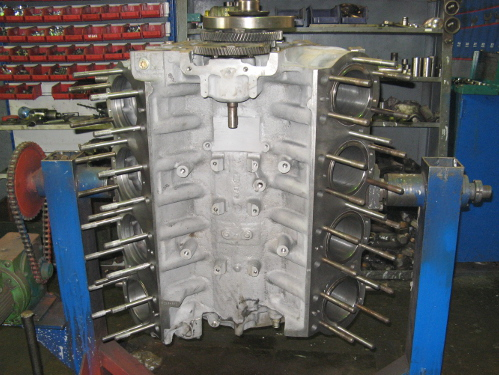
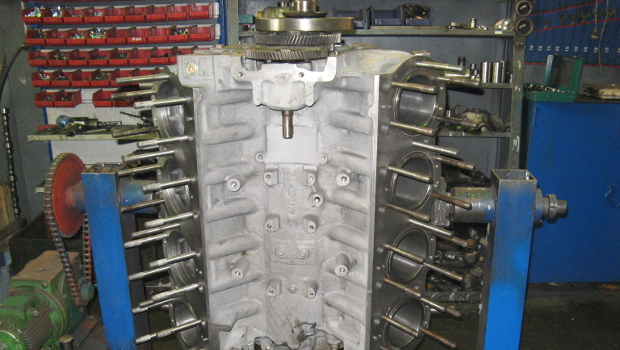
Страницы "главная", "О компании": правка

diff --git a/css/style.css b/css/style.css
@@ -1,2 +1,2 @@
-a,abbr,acronym,address,applet,article,aside,audio,b,big,blockquote,body,canvas,caption,center,cite,code,dd,del,details,dfn,div,dl,dt,em,embed,fieldset,figcaption,figure,footer,form,h1,h2,h3,h4,h5,h6,header,html,i,iframe,img,ins,kbd,label,legend,li,mark,menu,nav,object,ol,output,p,pre,q,ruby,s,samp,section,small,span,strike,strong,sub,summary,sup,table,tbody,td,tfoot,th,thead,time,tr,tt,u,ul,var,video{vertical-align:baseline;margin:0;padding:0;border:0;font-size:100%;font-family:inherit}article,aside,details,figcaption,figure,footer,header menu,nav,section{display:block}ol,ul{list-style:none}blockquote,q{quotes:none}blockquote:after,blockquote:before,q:after,q:before{content:none}table{border-collapse:collapse;border-spacing:0}caption,td,th{text-align:left;font-weight:400;vertical-align:middle}h1,h2,h3,h4,h5,h6{font-weight:400}:focus,a,button:focus,input:focus,optgroup:focus,select:focus,textarea:focus,ul{outline:0}button,input[type=button],input[type=submit]{font-family:inherit}.nivo-slider{position:relative;width:100%;height:auto;overflow:hidden}.nivo-slider img{position:absolute;top:0;left:0;height:375px;max-width:none}.nivo-main-image{display:block!important;position:relative!important;width:100%!important}.nivo-slider a.nivo-imageLink{position:absolute;top:0;left:0;width:100%;height:100%;border:0;padding:0;margin:0;z-index:6;display:none;background:#fff;opacity:0}.nivo-slice{display:block;position:absolute;z-index:5;height:100%;top:0}.nivo-box{display:block;position:absolute;z-index:5;overflow:hidden}.nivo-box img{display:block}.nivo-caption{position:absolute;left:0;bottom:0;background:#000;color:#fff;width:100%;z-index:8;padding:5px 10px;opacity:.8;overflow:hidden;display:none;-moz-opacity:.8;-webkit-box-sizing:border-box;box-sizing:border-box}.nivo-caption p{padding:5px;margin:0}.nivo-caption a{display:inline!important}.nivo-html-caption{display:none}.nivo-directionNav a{position:absolute;top:45%;z-index:9;cursor:pointer}.nivo-prevNav{left:0}.nivo-nextNav{right:0}.nivo-controlNav{text-align:center;padding:15px 0}.nivo-controlNav a{cursor:pointer}.nivo-controlNav a.active{font-weight:700}.theme-bar{position:relative;overflow:hidden}.theme-bar .nivo-slider{position:relative;background:url(../../vendors/nivo-slider/images/loading.gif) 50% 50% no-repeat #fff}.theme-bar .nivo-slider img{position:absolute;top:0;left:0;display:none}.theme-bar .nivo-slider a{border:0;display:block}.theme-bar .nivo-controlNav{position:absolute;left:0;bottom:-41px;z-index:10;width:100%;height:30px;text-align:center;padding:5px 0;border-top:1px solid #333;background:#333;background:-webkit-gradient(linear,left top,left bottom,from(#565656),to(#333));background:linear-gradient(to bottom,#565656 0,#333 100%);opacity:.5;-webkit-transition:.2s ease-in-out;transition:.2s ease-in-out}.theme-bar:hover .nivo-controlNav{bottom:0;opacity:1}.theme-bar .nivo-controlNav a{display:inline-block;width:22px;height:22px;background:url(../../vendors/nivo-slider/images/bullets.png) no-repeat;text-indent:-9999px;border:0;margin:5px 2px 0}.theme-bar .nivo-controlNav a.active{background-position:0 -22px}.theme-bar .nivo-directionNav a{display:block;border:0;color:#fff;text-transform:uppercase;top:auto;bottom:10px;z-index:11;font-family:"Helvetica Neue",Helvetica,Arial,sans-serif;font-size:13px;line-height:20px;opacity:.5;-webkit-transition:.2s ease-in-out;transition:.2s ease-in-out}.theme-bar a.nivo-nextNav{right:-60px}.theme-bar a.nivo-prevNav{left:-60px}.theme-bar:hover a.nivo-nextNav{right:15px;opacity:1}.theme-bar:hover a.nivo-prevNav{left:15px;opacity:1}.theme-bar .nivo-directionNav a:hover{color:#ddd}.theme-bar .nivo-caption{font-family:Helvetica,Arial,sans-serif;-webkit-transition:.2s ease-in-out;transition:.2s ease-in-out}.theme-bar:hover .nivo-caption{bottom:41px}.theme-bar .nivo-caption a{color:#fff;border-bottom:1px dotted #fff}.theme-bar .nivo-caption a:hover{color:#fff}.theme-bar .nivo-controlNav.nivo-thumbs-enabled{width:100%}.theme-bar .nivo-controlNav.nivo-thumbs-enabled a{width:auto;height:auto;background:0 0;margin-bottom:5px}.theme-bar .nivo-controlNav.nivo-thumbs-enabled img{display:block;width:120px;height:auto}.content-title{border-bottom:2px solid #f9bf00;padding-bottom:10px;font-size:21px;font-weight:700;color:#081f3e;text-shadow:1px 1px 2px rgba(35,31,32,.5)}.table-description{margin-bottom:10px;width:100%;border:1px solid #000;border-spacing:0}.table-description__caption{margin-bottom:5px;font-size:16px;text-align:center}.table-description__head{background:#aaa}.table-description__head-answer,.table-description__head-question{padding:5px 10px;border:1px solid #000;font-weight:700}.table-description__body-label,.table-description__body-value{padding:5px 10px;border:1px solid #000}.table-description__foot-call{padding:5px 10px;border:1px solid #000;color:#555;font-size:13px}.table-photo{width:100%}.table-photo__cell{width:50%}.table-photo__cell-link{display:block;margin:10px auto;width:75%;outline:#aaa solid 2px}.table-photo__cell-link:hover{outline:#f9bf00 solid 2px}.table-photo__cell-img{width:100%;vertical-align:bottom}.footer{display:inline-block;padding:10px 20px;color:#777}.footer__company{float:left;width:410px}.footer__location{float:left;width:250px}.footer__phones{float:left;width:230px;text-align:right}.header{background:url(../../images/oblaka.png) repeat-x;height:100%;margin:0 auto;position:relative;width:100%}.header:before{content:"";position:absolute;left:50%;margin-left:-300px;height:100%;width:600px;background:url(../../images/fon_head.png) no-repeat}.header__block{position:absolute;left:0;top:40px;height:50px;width:100%;z-index:10}.header__block._fixed{position:fixed;top:0;left:0;min-width:940px;background-color:rgba(8,35,68,.9)}.control-panel{position:relative;margin:0 auto;height:100%;width:940px}.control-panel__logo{display:block;position:absolute;top:11px;left:20px;letter-spacing:1px;font-weight:700;font-size:20px;text-shadow:1px 1px 2px #000}.control-panel__logo:hover{color:#fd9438}.menu{height:50px;position:absolute;right:0;top:0}.menu__list{float:right;height:100%}.menu__item{float:left;margin-top:19px;padding:0 12px;border-right:1px solid #ccc;line-height:12px;list-style:none}.menu__item._end{margin-right:18px;border:none}.menu__link{color:#e7f6fe;text-decoration:none;text-shadow:1px 1px 2px #000}.menu__link._active,.menu__link:hover{color:#f9bf00}.sidebar-container{float:left;position:relative;margin:10px 0;min-height:1px;width:260px}.sidebar{margin-left:10px;width:250px;text-align:left}.sidebar._fixed{position:fixed}.sidebar__title{margin-bottom:5px;padding:12px;font-size:18px;font-weight:700;color:#081f3e;background:#f9bf00;text-shadow:1px 1px 2px rgba(35,31,32,.5)}.sidebar-menu{position:relative}.sidebar-menu__item{padding:0 10px}.sidebar-menu__block-link{position:relative}.sidebar-menu__link{display:block;margin-left:30px;padding:3px 0;-webkit-box-sizing:border-box;box-sizing:border-box;color:#fff}.sidebar-menu__link:before{content:'';position:absolute;top:0;left:0;height:20px;width:40px;background:url(../../images/arrow.gif) 0 8px no-repeat}.sidebar-menu__link._active,.sidebar-menu__link:hover{color:#f9bf00}*{margin:0;padding:0}body,html{height:100%}body{-webkit-text-size-adjust:none;background:#fff;color:#000;font-weight:400;font-size:14px;font-family:Tahoma,sans-serif;line-height:1.3}img{border:none}a{color:#fff;text-decoration:none}b,strong{font-weight:700}article,aside,footer,header,nav,section{display:block}.wrapper{display:table;height:100%;min-width:940px;width:100%;background:#4b86c8}.header-container{position:relative;height:300px;width:100%;background:url(../../images/fon_head_substrate.png)}.content-container{display:table-row;height:100%;text-align:center}.content-container__block{display:inline-block;height:100%;background:url(../../images/lines_1.png)}.footer-container{width:100%;background:#081f3e}.footer-container__block{margin:0 auto;width:940px}.header__block{background:#081f3e}.about-company{float:left;position:relative;margin:10px;padding:10px 20px;height:calc(100% - 40px);min-height:320px;width:620px;background:#e8eff8;text-align:left}.about-company__text{padding:10px 0;line-height:1.3;text-align:justify;text-indent:25px}.about-company .dtl__list{padding-left:25px}.about-company .dtl__item{position:relative;margin-top:5px}.about-company .dtl__item:before{content:'-';position:absolute;top:0;left:-12px}.about-company__photo-ms1g2-1.table-photo .table-photo__cell:nth-of-type(1){width:70.35%}.about-company__photo-ms1g2-1.table-photo .table-photo__cell:nth-of-type(1) .table-photo__cell-link{margin-left:37px}.about-company__photo-ms1g2-1.table-photo .table-photo__cell:nth-of-type(2){width:29.65%}.about-company__photo-ms1g2-1.table-photo .table-photo__cell:nth-of-type(2) .table-photo__cell-link{margin-left:7px}.contacts{float:left;position:relative;margin:10px;padding:10px 20px;height:calc(100% - 40px);min-height:320px;width:620px;background:#e8eff8;text-align:left}.basic-info{display:inline-block}.basic-info__title{margin-top:5px;font-size:16px;font-weight:700}.basic-info__location.location-map,.basic-info__top.top-managers{float:left;margin-top:15px}.location-map{width:413px}.location-map__img{margin-top:5px;height:270px;width:385px;border:2px solid #ccc}.top-managers{width:206px}.top-managers__block{margin-top:20px}.top-managers__block:first-child{margin-top:22px}.top-managers__mail{color:#081f3e}.top-managers__mail:hover{text-decoration:underline}.company-details{margin-top:20px;border-top:1px solid #aaa}.company-details__title{margin-top:5px;font-size:16px;font-weight:700}.company-details__info{margin-top:8px;line-height:1.5}.documents{float:left;position:relative;margin:10px;padding:10px 20px;height:calc(100% - 40px);min-height:320px;width:620px;background:#e8eff8;text-align:left}.documents-review__title{padding:10px 0;font-size:16px;font-weight:700}.document-pages{display:inline-block;margin:10px 0;width:100%}.document-pages__item{float:left;width:33.3%;text-align:center}.document-pages__link{cursor:pointer}.document-pages__link:hover{outline:#f9bf00 solid 2px}.document-pages__img{vertical-align:bottom}.error-404{float:left;position:relative;margin:10px;padding:10px 20px;height:calc(100% - 40px);min-height:320px;width:620px;background:#e8eff8;text-align:left}.error-404__text-error{margin-top:20px;font-size:28px}.main{float:left;position:relative;margin:10px;padding:10px 20px;height:calc(100% - 40px);min-height:320px;width:620px;background:#e8eff8;text-align:left}.main__slider.theme-bar{margin:25px auto;width:500px;height:auto;border:1px solid #ccc;border-radius:5px;-webkit-box-shadow:5px 5px 10px 3px #666;box-shadow:5px 5px 10px 3px #666}.make-ms1g2{float:left;position:relative;margin:10px;padding:10px 20px;height:calc(100% - 40px);min-height:320px;width:620px;background:#e8eff8;text-align:left}.make-ms1g2__title{margin-top:20px;font-size:16px;font-weight:700}.make-ms1g2__table-photo:nth-of-type(1){margin-top:15px}.make-ms1g2__text{padding:10px 0;line-height:1.3;text-align:justify;text-indent:25px}.make-hinged{float:left;position:relative;margin:10px;padding:10px 20px;height:calc(100% - 40px);min-height:320px;width:620px;background:#e8eff8;text-align:left}.make-hinged__title{margin-top:20px;font-size:16px;font-weight:700}.make-hinged__item{margin-top:20px}.make-hinged__item:nth-of-type(1){margin-top:12px}.make-hinged__item>.make-hinged__text:nth-last-of-type(1){padding-bottom:0}.make-hinged__subtitle{font-weight:700}.make-hinged__text{padding:10px 0;line-height:1.3;text-align:justify;text-indent:25px}.make-hinged__img-link{float:left;margin-top:15px;margin-right:20px;margin-bottom:12px;outline:#aaa solid 2px}.make-hinged__img-link:hover{outline:#f9bf00 solid 2px}.make-hinged__img{vertical-align:bottom}.make-spare,.repair-railway{float:left;position:relative;margin:10px;padding:10px 20px;height:calc(100% - 40px);min-height:320px;width:620px;background:#e8eff8;text-align:left}.repair-list{margin-top:20px}.repair-list__title{font-size:16px;font-weight:700}.repair-list__short-info{padding:10px 0;line-height:1.3;text-align:justify;text-indent:25px}.rent-railway,.sale-railway{float:left;position:relative;margin:10px;padding:10px 20px;height:calc(100% - 40px);min-height:320px;width:620px;background:#e8eff8;text-align:left}.sale-list{margin-top:20px}.sale-list__title{font-size:16px;font-weight:700}.sale-list__short-info{padding:10px 0;line-height:1.3;text-align:justify;text-indent:25px}
+a,abbr,acronym,address,applet,article,aside,audio,b,big,blockquote,body,canvas,caption,center,cite,code,dd,del,details,dfn,div,dl,dt,em,embed,fieldset,figcaption,figure,footer,form,h1,h2,h3,h4,h5,h6,header,html,i,iframe,img,ins,kbd,label,legend,li,mark,menu,nav,object,ol,output,p,pre,q,ruby,s,samp,section,small,span,strike,strong,sub,summary,sup,table,tbody,td,tfoot,th,thead,time,tr,tt,u,ul,var,video{vertical-align:baseline;margin:0;padding:0;border:0;font-size:100%;font-family:inherit}article,aside,details,figcaption,figure,footer,header menu,nav,section{display:block}ol,ul{list-style:none}blockquote,q{quotes:none}blockquote:after,blockquote:before,q:after,q:before{content:none}table{border-collapse:collapse;border-spacing:0}caption,td,th{text-align:left;font-weight:400;vertical-align:middle}h1,h2,h3,h4,h5,h6{font-weight:400}:focus,a,button:focus,input:focus,optgroup:focus,select:focus,textarea:focus,ul{outline:0}button,input[type=button],input[type=submit]{font-family:inherit}.nivo-slider{position:relative;width:100%;height:auto;overflow:hidden}.nivo-slider img{position:absolute;top:0;left:0;height:325px;max-width:none}.nivo-main-image{display:block!important;position:relative!important;width:100%!important}.nivo-slider a.nivo-imageLink{position:absolute;top:0;left:0;width:100%;height:100%;border:0;padding:0;margin:0;z-index:6;display:none;background:#fff;opacity:0}.nivo-slice{display:block;position:absolute;z-index:5;height:100%;top:0}.nivo-box{display:block;position:absolute;z-index:5;overflow:hidden}.nivo-box img{display:block}.nivo-caption{position:absolute;left:0;bottom:0;background:#000;color:#fff;width:100%;z-index:8;padding:5px 10px;opacity:.8;overflow:hidden;display:none;-moz-opacity:.8;-webkit-box-sizing:border-box;box-sizing:border-box}.nivo-caption p{padding:5px;margin:0}.nivo-caption a{display:inline!important}.nivo-html-caption{display:none}.nivo-directionNav a{position:absolute;top:45%;z-index:9;cursor:pointer}.nivo-prevNav{left:0}.nivo-nextNav{right:0}.nivo-controlNav{text-align:center;padding:15px 0}.nivo-controlNav a{cursor:pointer}.nivo-controlNav a.active{font-weight:700}.theme-bar{position:relative;overflow:hidden}.theme-bar .nivo-slider{position:relative;background:url(../../vendors/nivo-slider/images/loading.gif) 50% 50% no-repeat #fff}.theme-bar .nivo-slider img{position:absolute;top:0;left:0;display:none}.theme-bar .nivo-slider a{border:0;display:block}.theme-bar .nivo-controlNav{position:absolute;left:0;bottom:-41px;z-index:10;width:100%;height:30px;text-align:center;padding:5px 0;border-top:1px solid #333;background:#333;background:-webkit-gradient(linear,left top,left bottom,from(#565656),to(#333));background:linear-gradient(to bottom,#565656 0,#333 100%);opacity:.5;-webkit-transition:.2s ease-in-out;transition:.2s ease-in-out}.theme-bar:hover .nivo-controlNav{bottom:0;opacity:1}.theme-bar .nivo-controlNav a{display:inline-block;width:22px;height:22px;background:url(../../vendors/nivo-slider/images/bullets.png) no-repeat;text-indent:-9999px;border:0;margin:5px 2px 0}.theme-bar .nivo-controlNav a.active{background-position:0 -22px}.theme-bar .nivo-directionNav a{display:block;border:0;color:#fff;text-transform:uppercase;top:auto;bottom:10px;z-index:11;font-family:"Helvetica Neue",Helvetica,Arial,sans-serif;font-size:13px;line-height:20px;opacity:.5;-webkit-transition:.2s ease-in-out;transition:.2s ease-in-out}.theme-bar a.nivo-nextNav{right:-60px}.theme-bar a.nivo-prevNav{left:-60px}.theme-bar:hover a.nivo-nextNav{right:15px;opacity:1}.theme-bar:hover a.nivo-prevNav{left:15px;opacity:1}.theme-bar .nivo-directionNav a:hover{color:#ddd}.theme-bar .nivo-caption{font-family:Helvetica,Arial,sans-serif;-webkit-transition:.2s ease-in-out;transition:.2s ease-in-out}.theme-bar:hover .nivo-caption{bottom:41px}.theme-bar .nivo-caption a{color:#fff;border-bottom:1px dotted #fff}.theme-bar .nivo-caption a:hover{color:#fff}.theme-bar .nivo-controlNav.nivo-thumbs-enabled{width:100%}.theme-bar .nivo-controlNav.nivo-thumbs-enabled a{width:auto;height:auto;background:0 0;margin-bottom:5px}.theme-bar .nivo-controlNav.nivo-thumbs-enabled img{display:block;width:120px;height:auto}.content-title{border-bottom:2px solid #f9bf00;padding-bottom:10px;font-size:21px;font-weight:700;color:#081f3e;text-shadow:1px 1px 2px rgba(35,31,32,.5)}.table-description{margin-bottom:10px;width:100%;border:1px solid #000;border-spacing:0}.table-description__caption{margin-bottom:5px;font-size:16px;text-align:center}.table-description__head{background:#aaa}.table-description__head-answer,.table-description__head-question{padding:5px 10px;border:1px solid #000;font-weight:700}.table-description__body-label,.table-description__body-value{padding:5px 10px;border:1px solid #000}.table-description__foot-call{padding:5px 10px;border:1px solid #000;color:#555;font-size:13px}.table-photo{width:100%}.table-photo__cell{width:50%}.table-photo__cell-link{display:block;margin:10px auto;width:75%;outline:#aaa solid 2px}.table-photo__cell-link:hover{outline:#f9bf00 solid 2px}.table-photo__cell-img{width:100%;vertical-align:bottom}.footer{display:inline-block;padding:10px 20px;color:#777}.footer__company{float:left;width:410px}.footer__location{float:left;width:250px}.footer__phones{float:left;width:230px;text-align:right}.header{background:url(../../images/oblaka.png) repeat-x;height:100%;margin:0 auto;position:relative;width:100%}.header:before{content:"";position:absolute;left:50%;margin-left:-300px;height:100%;width:600px;background:url(../../images/fon_head.png) no-repeat}.header__block{position:absolute;left:0;top:40px;height:50px;width:100%;z-index:10}.header__block._fixed{position:fixed;top:0;left:0;min-width:940px;background-color:rgba(8,35,68,.9)}.control-panel{position:relative;margin:0 auto;height:100%;width:940px}.control-panel__logo{display:block;position:absolute;top:11px;left:20px;letter-spacing:1px;font-weight:700;font-size:20px;text-shadow:1px 1px 2px #000}.control-panel__logo:hover{color:#fd9438}.menu{height:50px;position:absolute;right:0;top:0}.menu__list{float:right;height:100%}.menu__item{float:left;margin-top:19px;padding:0 12px;border-right:1px solid #ccc;line-height:12px;list-style:none}.menu__item._end{margin-right:18px;border:none}.menu__link{color:#e7f6fe;text-decoration:none;text-shadow:1px 1px 2px #000}.menu__link._active,.menu__link:hover{color:#f9bf00}.sidebar-container{float:left;position:relative;margin:10px 0;min-height:1px;width:260px}.sidebar{margin-left:10px;width:250px;text-align:left}.sidebar._fixed{position:fixed}.sidebar__title{margin-bottom:5px;padding:12px;font-size:18px;font-weight:700;color:#081f3e;background:#f9bf00;text-shadow:1px 1px 2px rgba(35,31,32,.5)}.sidebar-menu{position:relative}.sidebar-menu__item{padding:0 10px}.sidebar-menu__block-link{position:relative}.sidebar-menu__link{display:block;margin-left:30px;padding:3px 0;-webkit-box-sizing:border-box;box-sizing:border-box;color:#fff}.sidebar-menu__link:before{content:'';position:absolute;top:0;left:0;height:20px;width:40px;background:url(../../images/arrow.gif) 0 8px no-repeat}.sidebar-menu__link._active,.sidebar-menu__link:hover{color:#f9bf00}*{margin:0;padding:0}body,html{height:100%}body{-webkit-text-size-adjust:none;background:#fff;color:#000;font-weight:400;font-size:14px;font-family:Tahoma,sans-serif;line-height:1.3}img{border:none}a{color:#fff;text-decoration:none}b,strong{font-weight:700}article,aside,footer,header,nav,section{display:block}.wrapper{display:table;height:100%;min-width:940px;width:100%;background:#4b86c8}.header-container{position:relative;height:300px;width:100%;background:url(../../images/fon_head_substrate.png)}.content-container{display:table-row;height:100%;text-align:center}.content-container__block{display:inline-block;height:100%;background:url(../../images/lines_1.png)}.footer-container{width:100%;background:#081f3e}.footer-container__block{margin:0 auto;width:940px}.header__block{background:#081f3e}.about-company{float:left;position:relative;margin:10px;padding:10px 20px;height:calc(100% - 40px);min-height:320px;width:620px;background:#e8eff8;text-align:left}.about-company__text{padding:10px 0;line-height:1.3;text-align:justify;text-indent:25px}.about-company .dtl__list{padding-left:25px}.about-company .dtl__item{position:relative;margin-top:5px}.about-company .dtl__item:before{content:'-';position:absolute;top:0;left:-12px}.about-company__photo-ms1g2-1.table-photo .table-photo__cell:nth-of-type(1){width:70.35%}.about-company__photo-ms1g2-1.table-photo .table-photo__cell:nth-of-type(1) .table-photo__cell-link{margin-left:37px}.about-company__photo-ms1g2-1.table-photo .table-photo__cell:nth-of-type(2){width:29.65%}.about-company__photo-ms1g2-1.table-photo .table-photo__cell:nth-of-type(2) .table-photo__cell-link{margin-left:7px}.contacts{float:left;position:relative;margin:10px;padding:10px 20px;height:calc(100% - 40px);min-height:320px;width:620px;background:#e8eff8;text-align:left}.basic-info{display:inline-block}.basic-info__title{margin-top:5px;font-size:16px;font-weight:700}.basic-info__location.location-map,.basic-info__top.top-managers{float:left;margin-top:15px}.location-map{width:413px}.location-map__img{margin-top:5px;height:270px;width:385px;border:2px solid #ccc}.top-managers{width:206px}.top-managers__block{margin-top:20px}.top-managers__block:first-child{margin-top:22px}.top-managers__mail{color:#081f3e}.top-managers__mail:hover{text-decoration:underline}.company-details{margin-top:20px;border-top:1px solid #aaa}.company-details__title{margin-top:5px;font-size:16px;font-weight:700}.company-details__info{margin-top:8px;line-height:1.5}.documents{float:left;position:relative;margin:10px;padding:10px 20px;height:calc(100% - 40px);min-height:320px;width:620px;background:#e8eff8;text-align:left}.documents-review__title{padding:10px 0;font-size:16px;font-weight:700}.document-pages{display:inline-block;margin:10px 0;width:100%}.document-pages__item{float:left;width:33.3%;text-align:center}.document-pages__link{cursor:pointer}.document-pages__link:hover{outline:#f9bf00 solid 2px}.document-pages__img{vertical-align:bottom}.error-404{float:left;position:relative;margin:10px;padding:10px 20px;height:calc(100% - 40px);min-height:320px;width:620px;background:#e8eff8;text-align:left}.error-404__text-error{margin-top:20px;font-size:28px}.main{float:left;position:relative;margin:10px;padding:10px 20px;height:calc(100% - 40px);min-height:320px;width:620px;background:#e8eff8;text-align:left}.main__text{padding:10px 0;line-height:1.3;text-align:justify;text-indent:25px}.main__text:nth-of-type(1){margin-top:10px}.main__slider.theme-bar{margin:15px auto;width:576px;height:auto;border:1px solid #ccc}.make-ms1g2{float:left;position:relative;margin:10px;padding:10px 20px;height:calc(100% - 40px);min-height:320px;width:620px;background:#e8eff8;text-align:left}.make-ms1g2__title{margin-top:20px;font-size:16px;font-weight:700}.make-ms1g2__table-photo:nth-of-type(1){margin-top:15px}.make-ms1g2__text{padding:10px 0;line-height:1.3;text-align:justify;text-indent:25px}.make-hinged{float:left;position:relative;margin:10px;padding:10px 20px;height:calc(100% - 40px);min-height:320px;width:620px;background:#e8eff8;text-align:left}.make-hinged__title{margin-top:20px;font-size:16px;font-weight:700}.make-hinged__item{margin-top:20px}.make-hinged__item:nth-of-type(1){margin-top:12px}.make-hinged__item>.make-hinged__text:nth-last-of-type(1){padding-bottom:0}.make-hinged__subtitle{font-weight:700}.make-hinged__text{padding:10px 0;line-height:1.3;text-align:justify;text-indent:25px}.make-hinged__img-link{float:left;margin-top:15px;margin-right:20px;margin-bottom:12px;outline:#aaa solid 2px}.make-hinged__img-link:hover{outline:#f9bf00 solid 2px}.make-hinged__img{vertical-align:bottom}.make-spare,.repair-railway{float:left;position:relative;margin:10px;padding:10px 20px;height:calc(100% - 40px);min-height:320px;width:620px;background:#e8eff8;text-align:left}.repair-list{margin-top:20px}.repair-list__title{font-size:16px;font-weight:700}.repair-list__short-info{padding:10px 0;line-height:1.3;text-align:justify;text-indent:25px}.rent-railway,.sale-railway{float:left;position:relative;margin:10px;padding:10px 20px;height:calc(100% - 40px);min-height:320px;width:620px;background:#e8eff8;text-align:left}.sale-list{margin-top:20px}.sale-list__title{font-size:16px;font-weight:700}.sale-list__short-info{padding:10px 0;line-height:1.3;text-align:justify;text-indent:25px}
 /*# sourceMappingURL=style.css.map */

diff --git a/src/scss/pages/_main.scss b/src/scss/pages/_main.scss
@@ -1,13 +1,22 @@
 .main {
 	@include main-content();
 
+	&__text {
+		padding: 10px 0;
+		line-height: 1.3;
+		text-align: justify;
+		text-indent: 25px;
+
+		&:nth-of-type(1) {
+			margin-top: 10px;
+		}
+	}
+
 	&__slider.theme-bar {
-		margin : 25px auto;
-		width  : 500px;
+		margin : 15px auto;
+		width  : 576px;
 		height : auto;
 
 		border : 1px solid $lightGray;
-		border-radius: 5px;
-		box-shadow: 5px 5px 10px 3px #666666;
 	}
 }

diff --git a/src/scss/vendors/_nivo-slider.scss b/src/scss/vendors/_nivo-slider.scss
@@ -19,7 +19,7 @@
 	position  : absolute;
 	top       : 0;
 	left      : 0;
-	height    : 375px;
+	height    : 325px;
 	max-width : none;
 }
 

diff --git a/tpl/pages/about-company.php b/tpl/pages/about-company.php
@@ -3,16 +3,12 @@
 	<h2 class="about-company__content-title content-title">О компании</h2>
 
 	<p class="about-company__text">
-		ООО "ВИБРОБУРМАШ" рада приветствовать Вас на своем официальном сайте.
-	</p>
-
-	<p class="about-company__text">
 		Наша фирма занимается разработкой, изготовлением и ремонтом специальных машин
 		на железнодорожном ходу и сменным навесным  оборудованием  к ним.
-		Мы изготавливаем машины  на автомобильном ходу, предназначенных для строительства
+		Мы выпускаем комплексы  на автомобильном ходу, предназначенные для строительства
 		сетей энергоснабжения и электрификации железных дорог, промышленного и
-		гражданского строительства. Кроме того, наша фирма занимается предоставлением
-		услуг по аренде, продаже б/у железнодорожной техники .
+		гражданского строительства. Кроме того, компания занимается предоставлением
+		услуг по аренде, продаже ранее эксплуатируемой ж.д. техники.
 	</p>
 
 	<dl class="about-company__dtl dtl">
@@ -20,21 +16,18 @@
 		<dd class="dtl__v">
 			<ul class="dtl__list">
 				<li class="dtl__item">
-					машину МС-1г.2 для вибропогружения свай и свайных фундаментов опор
+					подвижную железнодорожную установку МС-1г.2 для вибропогружения свай и свайных фундаментов опор
 					контактной сети;
 				</li>
 				<li class="dtl__item">
-					машину МВС-1 для вибропогружения свайных фундаментов опор контактной
+					комплекс МВС-1 для вибропогружения свайных фундаментов опор контактной
 					сети и свай на базе автомобиля "УРАЛ-4320-1968-40";
 				</li>
 				<li class="dtl__item">
 					краноманипуляторную установку на платформе 13-4012;
 				</li>
 				<li class="dtl__item">
-					бурильное оборудование к машинам МС;
-				</li>
-				<li class="dtl__item">
-					пневмоударное буровое оборудование к машинам МС;
+					бурильное и пневмоударное буровое оборудование к машинам МС;
 				</li>
 				<li class="dtl__item">
 					сменное оборудование к машинам МС для установки металлических винтовых
@@ -60,10 +53,10 @@
 	</table>
 
 	<p class="about-company__text">
-		Наша фирма осуществляет все виды ремонтов железно-дорожной техники – машин для
+		ООО 'Вибробурмаш' осуществляет все виды ремонтов железно-дорожной техники – спец.машин для
 		вибропогружения свай и свайных фундаментов опор контактной сети (АВФ-1; АВФ-1М.2;
 		МС-1; МС-1м) и рабочих органов к ним, сменного оборудования к машинам МС,
-		а также дрезин АДМ и ж. д. кранов .
+		а также дрезин АДМ и ж/д кранов.
 	</p>
 
 	<table class="about-company__photo-adm-mpt table-photo blueimp-links">
@@ -82,7 +75,7 @@
 	</table>
 
 	<p class="about-company__text">
-		Наши машины и оборудование успешно работают на железных дорогах России и во многих
+		Наша техника и оборудование успешно работает на железных дорогах России и во многих
 		строительных организациях, занимающихся работами по ремонту сетей энергоснабжения и
 		электрификации железных дорогах.
 	</p>

diff --git a/tpl/pages/main/main.php b/tpl/pages/main/main.php
@@ -1,12 +1,20 @@
 <section class="main">
 	<h2 class="main__content-title content-title">Главная</h2>
+
+	<p class="main__text">
+		Компания ООО "ВИБРОБУРМАШ" рада приветствовать Вас на своем официальном сайте!
+		Здесь Вы можете ознакомиться с нашей продукцией, а также узнать наши контакты и реквизиты.
+		Если у Вас возникли вопросы, звоните, мы проконсультируем и вместе подберем оптимальное решение.
+	</p>
+
 	<!-- слайдер на главной -->
 	<?php include_once "tpl/pages/main/slider/slider.php" ?>
 	<!-- /слайдер на главной -->
+
 </section>
 <script src="<?php echo $absAddress; ?>vendors/nivo-slider/jquery.nivo.slider.js"></script>
 <script>
 	$(window).load(function () {
-		$('#slider').nivoSlider();
+		$('#slider').nivoSlider({controlNav: false});
 	});
 </script>

diff --git a/connect/connect.php b/connect/connect.php
@@ -15,7 +15,7 @@ switch ($page) {
 		$connect = "tpl/pages/main/main.php";
 		$activeItem = 1;
 		$title = "Главная";
-		$description = "";
+		$description = "Официальный сайт ООО'ВИБРОБУРМАШ' г.Бологое";
 		break;
 
 	case "2":
